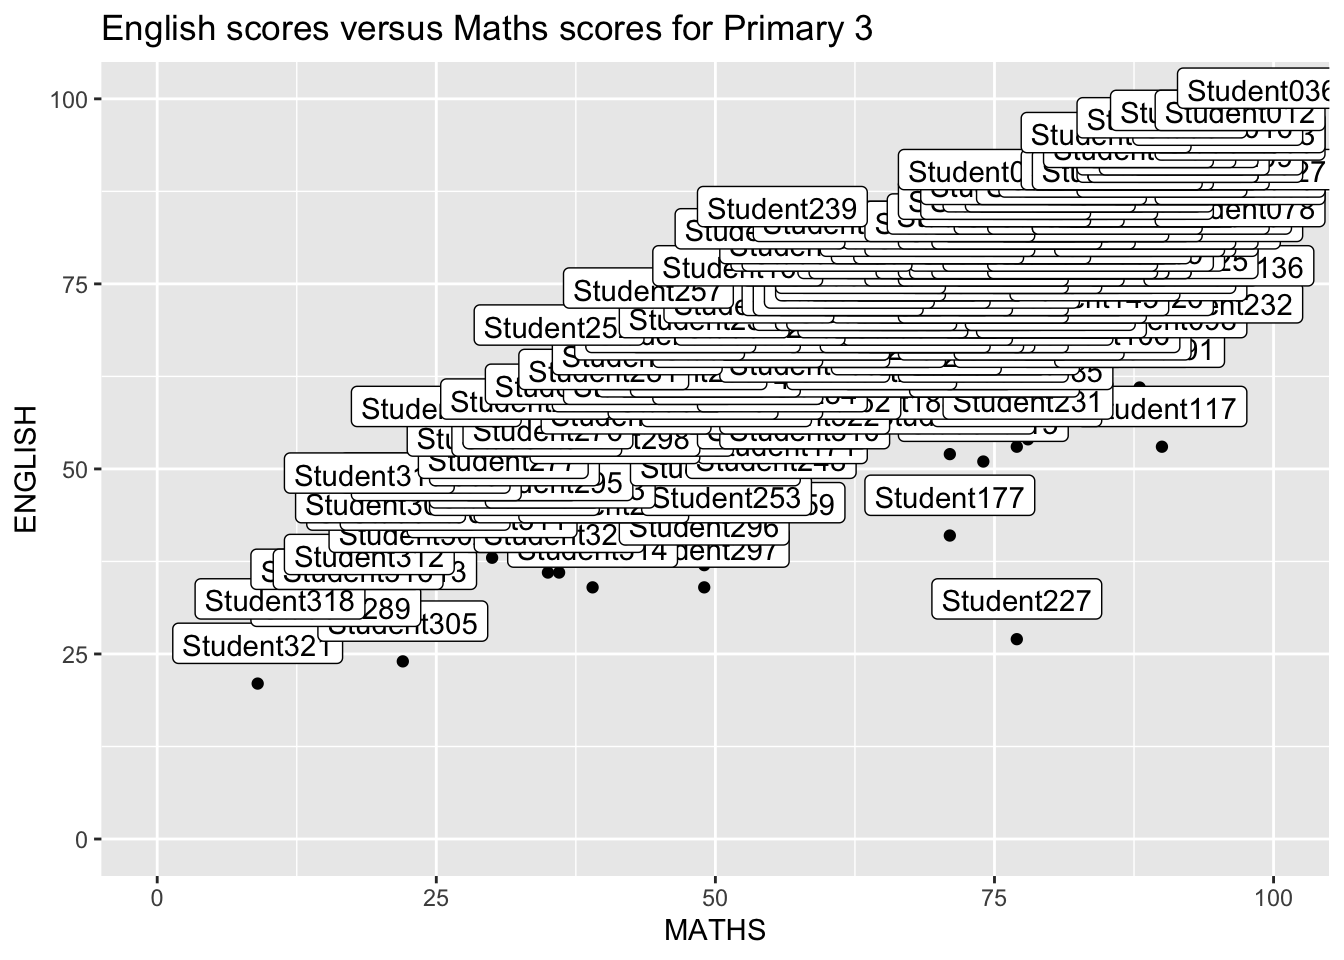
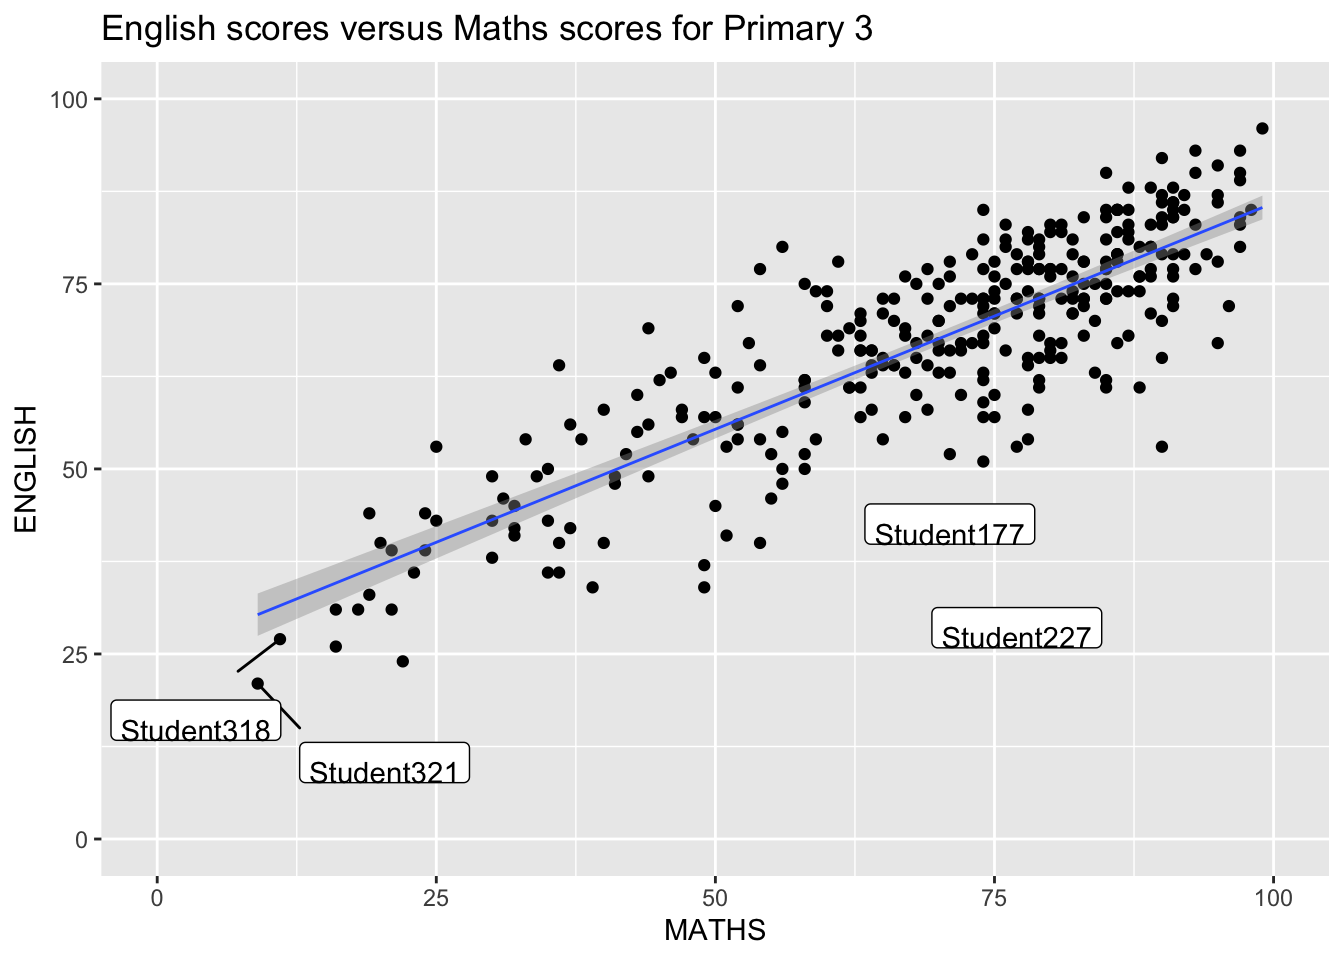
commit

Changed region(s): [[0.0625, 0.0625, 1.0, 0.8438]]

diff --git a/_site/Hands-on_Ex/Hands-on_Ex02/Hands-on_Ex02.html b/_site/Hands-on_Ex/Hands-on_Ex02/Hands-on_Ex02.html
@@ -132,7 +132,7 @@ dbl (3): ENGLISH, MATHS, SCIENCE
 <span id="cb4-4"><a href="#cb4-4" aria-hidden="true" tabindex="-1"></a>  <span class="fu">geom_point</span>() <span class="sc">+</span></span>
 <span id="cb4-5"><a href="#cb4-5" aria-hidden="true" tabindex="-1"></a>  <span class="fu">geom_smooth</span>(<span class="at">method=</span>lm, </span>
 <span id="cb4-6"><a href="#cb4-6" aria-hidden="true" tabindex="-1"></a>              <span class="at">size=</span><span class="fl">0.5</span>) <span class="sc">+</span>  </span>
-<span id="cb4-7"><a href="#cb4-7" aria-hidden="true" tabindex="-1"></a>  <span class="fu">geom_label</span>(<span class="fu">aes</span>(<span class="at">label =</span> ID), </span>
+<span id="cb4-7"><a href="#cb4-7" aria-hidden="true" tabindex="-1"></a>  <span class="fu">geom_label_repel</span>(<span class="fu">aes</span>(<span class="at">label =</span> ID), </span>
 <span id="cb4-8"><a href="#cb4-8" aria-hidden="true" tabindex="-1"></a>             <span class="at">hjust =</span> .<span class="dv">5</span>, </span>
 <span id="cb4-9"><a href="#cb4-9" aria-hidden="true" tabindex="-1"></a>             <span class="at">vjust =</span> <span class="sc">-</span>.<span class="dv">5</span>) <span class="sc">+</span></span>
 <span id="cb4-10"><a href="#cb4-10" aria-hidden="true" tabindex="-1"></a>  <span class="fu">coord_cartesian</span>(<span class="at">xlim=</span><span class="fu">c</span>(<span class="dv">0</span>,<span class="dv">100</span>),</span>
@@ -144,6 +144,10 @@ dbl (3): ENGLISH, MATHS, SCIENCE
 </div>
 <div class="cell-output cell-output-stderr">
 <pre><code>`geom_smooth()` using formula = 'y ~ x'</code></pre>
+</div>
+<div class="cell-output cell-output-stderr">
+<pre><code>Warning: ggrepel: 318 unlabeled data points (too many overlaps). Consider
+increasing max.overlaps</code></pre>
 </div>
 <div class="cell-output-display">
 <p><img src="Hands-on_Ex02_files/figure-html/unnamed-chunk-3-1.png" class="img-fluid" width="672"></p>
